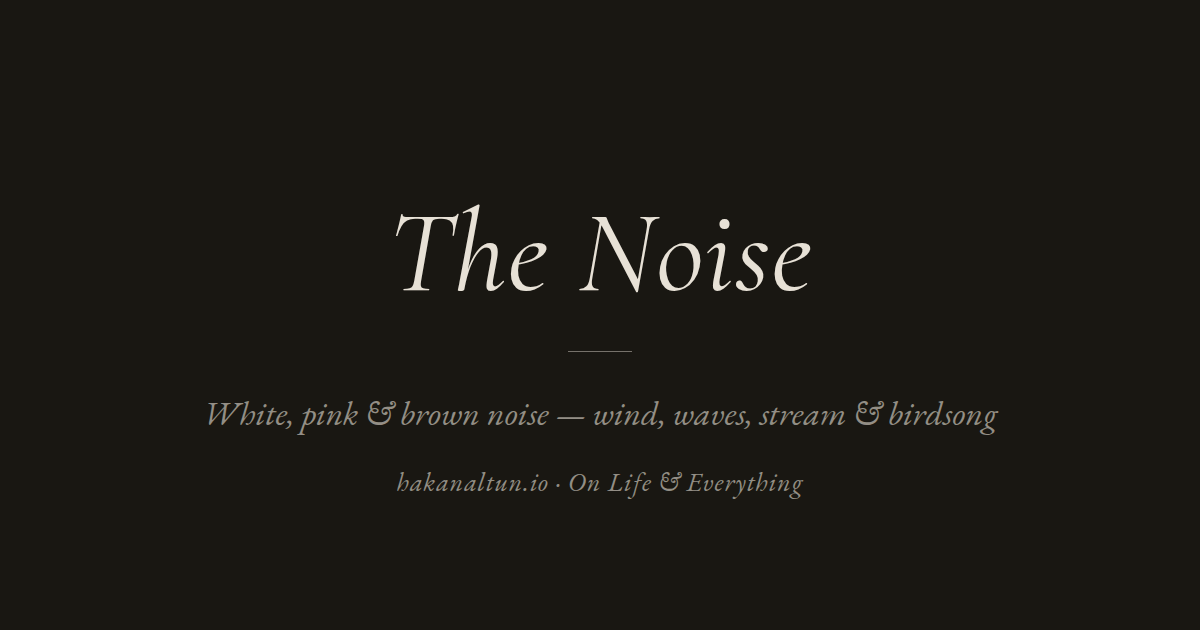
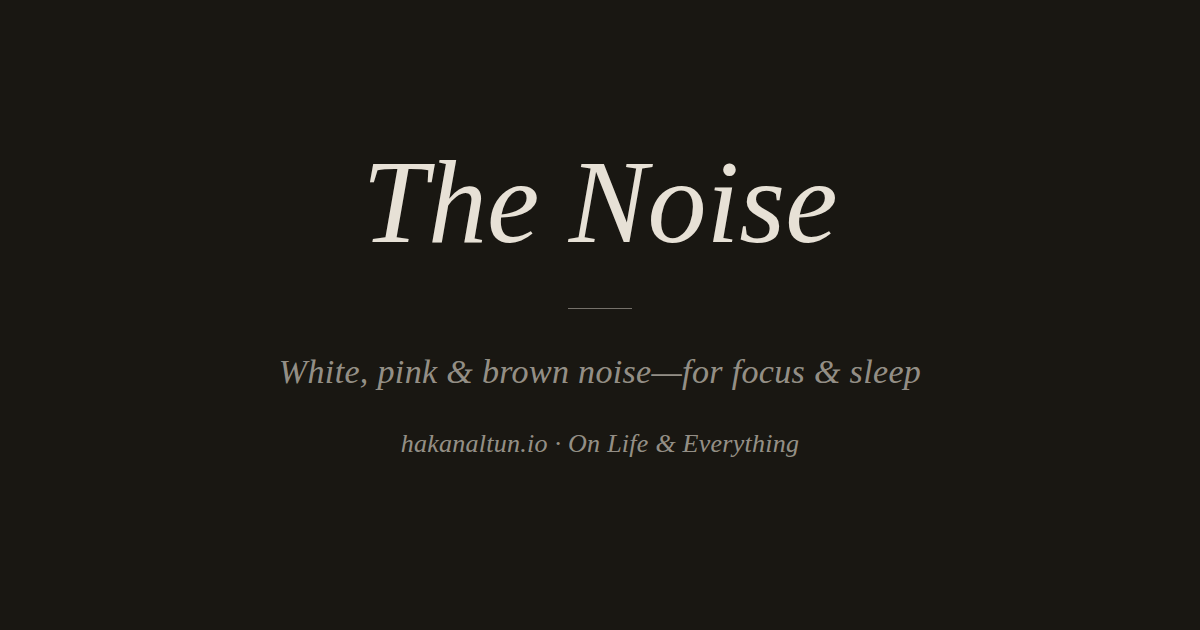
Pare the noise to its three colors, dress the tools in wine
- The Noise keeps only white, pink and brown noise: the synthesized
  nature sounds never quite escaped their machinery, so they go —
  buttons, builders, copy, metadata and the OG card all updated,
  and sibling pages now link to it as 'ambient noise'
- The tools chrome becomes the site's wine red (#7A4453)
- Twilight's text now leans from cream toward the same wine as the
  day brightens, instead of plain ink
- Fix twilight anchoring sun events to the wrong UTC date in far
  eastern and western cities, which showed Los Angeles a negative
  day length and pointed the next-event line at the wrong moment

Claude-Session: https://claude.ai/code/session_011VHvkLSUdAN92JzawrxAur

Changed region(s): [[0.3083, 0.2413, 0.7092, 0.4825], [0.1542, 0.573, 0.8325, 0.7238], [0.3083, 0.754, 0.6783, 0.7841]]

diff --git a/noise/index.html b/noise/index.html
@@ -6,21 +6,21 @@ layout: null
 <head>
 <meta charset="UTF-8">
 <meta name="viewport" content="width=device-width, initial-scale=1.0">
-<title>White, Pink &amp; Brown Noise, Wind, Waves &amp; a Stream &middot; On Life &amp; Everything</title>
-<meta name="description" content="A quiet sound machine for focus and sleep: white, pink and brown noise, plus wind, waves and a stream&mdash;all synthesized live in your browser, with a volume dial and a sleep timer.">
+<title>White, Pink &amp; Brown Noise &middot; On Life &amp; Everything</title>
+<meta name="description" content="A quiet sound machine for focus and sleep: white, pink and brown noise, synthesized live in your browser, with a volume dial and a sleep timer.">
 <link rel="canonical" href="https://hakanaltun.io/noise/">
 <meta property="og:type" content="website">
-<meta property="og:title" content="White, Pink &amp; Brown Noise, Wind, Waves &amp; a Stream">
-<meta property="og:description" content="Noise colors and nature sounds for focus and sleep, synthesized live in your browser, with a volume dial and a sleep timer.">
+<meta property="og:title" content="White, Pink &amp; Brown Noise">
+<meta property="og:description" content="Noise colors for focus and sleep, synthesized live in your browser, with a volume dial and a sleep timer.">
 <meta property="og:url" content="https://hakanaltun.io/noise/">
-<meta property="og:image" content="https://hakanaltun.io/images/og/noise.png?v=20260716-2">
-<meta property="og:image:alt" content="The Noise—noise colors and nature sounds for focus and sleep">
+<meta property="og:image" content="https://hakanaltun.io/images/og/noise.png?v=20260716-3">
+<meta property="og:image:alt" content="The Noise—white, pink and brown noise for focus and sleep">
 <meta property="og:image:width" content="1200">
 <meta property="og:image:height" content="630">
 <meta name="twitter:card" content="summary_large_image">
-<meta name="twitter:title" content="White, Pink &amp; Brown Noise, Wind, Waves &amp; a Stream">
-<meta name="twitter:description" content="Noise colors and nature sounds for focus and sleep, synthesized live in your browser, with a volume dial and a sleep timer.">
-<meta name="twitter:image" content="https://hakanaltun.io/images/og/noise.png?v=20260716-2">
+<meta name="twitter:title" content="White, Pink &amp; Brown Noise">
+<meta name="twitter:description" content="Noise colors for focus and sleep, synthesized live in your browser, with a volume dial and a sleep timer.">
+<meta name="twitter:image" content="https://hakanaltun.io/images/og/noise.png?v=20260716-3">
 <meta name="theme-color" content="#191712">
 
 <script type="application/ld+json">
@@ -30,9 +30,9 @@ layout: null
     {
       "@type": "WebApplication",
       "@id": "https://hakanaltun.io/noise/#app",
-      "name": "The Noise—Noise Colors & Nature Sounds",
+      "name": "The Noise—White, Pink & Brown Noise",
       "url": "https://hakanaltun.io/noise/",
-      "description": "A quiet sound machine for focus and sleep: white, pink and brown noise, plus wind, waves and a stream—all synthesized live in your browser, with a volume dial and a sleep timer.",
+      "description": "A quiet sound machine for focus and sleep: white, pink and brown noise, synthesized live in your browser, with a volume dial and a sleep timer.",
       "applicationCategory": "UtilitiesApplication",
       "operatingSystem": "Any",
       "browserRequirements": "Requires JavaScript and Web Audio",
@@ -52,8 +52,8 @@ layout: null
         },
         {
           "@type": "Question",
-          "name": "Where do the sounds come from?",
-          "acceptedAnswer": { "@type": "Answer", "text": "Your browser synthesizes them the moment you press play. The noise colors are shaped from raw randomness, and the nature sounds are built from the same material—filtered into wind, gathered into waves, quickened into a stream. Because they are computed rather than recorded, they carry on indefinitely and never loop." }
+          "name": "Where does the sound come from?",
+          "acceptedAnswer": { "@type": "Answer", "text": "Your browser synthesizes it the moment you press play, shaping each color live from raw randomness. Because the sound is computed rather than recorded, it carries on indefinitely and never loops." }
         },
         {
           "@type": "Question",
@@ -252,9 +252,6 @@ layout: null
         <button data-sound="white" aria-pressed="false">White</button>
         <button data-sound="pink" aria-pressed="false">Pink</button>
         <button data-sound="brown" aria-pressed="true">Brown</button>
-        <button data-sound="wind" aria-pressed="false">Wind</button>
-        <button data-sound="waves" aria-pressed="false">Waves</button>
-        <button data-sound="stream" aria-pressed="false">Stream</button>
       </div>
     </div>
 
@@ -289,14 +286,14 @@ layout: null
   <footer class="notes" id="notes">
     <div class="notes-inner">
       <h2>About this sound machine</h2>
-      <p>Sounds to work, rest and sleep inside: three colors of noise&mdash;white, pink and brown&mdash;and three borrowed from nature: wind, waves and a stream. Your browser&rsquo;s audio engine shapes them live as they play, so each one carries on for as long as you leave it running. Set the volume low, choose a sound, and let it hold the room; the sleep timer can fade everything out after 15, 30 or 60 minutes.</p>
+      <p>Sounds to work, rest and sleep inside: three colors of noise&mdash;white, pink and brown. Your browser&rsquo;s audio engine shapes them live as they play, so each one carries on for as long as you leave it running. Set the volume low, choose a color, and let it hold the room; the sleep timer can fade everything out after 15, 30 or 60 minutes.</p>
 
       <h2>Questions</h2>
       <h3>What is the difference between white, pink and brown noise?</h3>
       <p>White noise spreads its energy evenly across all frequencies and sounds bright, like static. Pink noise tilts toward the low end and sounds like steady rain. Brown noise leans lower still&mdash;closer to surf or a distant waterfall&mdash;and many people find it the easiest to sit inside for hours.</p>
 
-      <h3>Where do the sounds come from?</h3>
-      <p>Your browser synthesizes them the moment you press play. The noise colors are shaped from raw randomness, and the nature sounds are built from the same material&mdash;filtered into wind, gathered into waves, quickened into a stream. Because they are computed rather than recorded, they carry on indefinitely and never loop.</p>
+      <h3>Where does the sound come from?</h3>
+      <p>Your browser synthesizes it the moment you press play, shaping each color live from raw randomness. Because the sound is computed rather than recorded, it carries on indefinitely and never loops.</p>
 
       <h3>Will it keep playing if I switch tabs or lock my phone?</h3>
       <p>In a background tab on a computer, yes. On phones the operating system may pause web audio when the screen locks&mdash;keep the page in the foreground, or use the sleep timer and let it fade out on its own.</p>
@@ -320,10 +317,7 @@ layout: null
   var SOUNDS = {                     /* display name + rough loudness matching */
     white:  { name:"White noise", level:0.16 },
     pink:   { name:"Pink noise",  level:0.22 },
-    brown:  { name:"Brown noise", level:0.38 },
-    wind:   { name:"Wind",        level:0.55 },
-    waves:  { name:"Waves",       level:0.60 },
-    stream: { name:"Stream",      level:0.42 }
+    brown:  { name:"Brown noise", level:0.38 }
   };
 
   try{
@@ -386,154 +380,15 @@ layout: null
   }
   function targetGain(){ return (+$("#vol").value / 100) * SOUNDS[sound].level; }
 
-  /* ---- the sounds: each builder wires a small graph into master and
-     returns a handle whose stop() silences everything it started ---- */
-  function handle(){
-    var h = { sources:[], oscs:[], timers:[] };
-    h.stop = function(){
-      h.timers.forEach(clearTimeout);
-      h.oscs.forEach(function(o){ try{ o.stop(); }catch(e){} });
-      h.sources.forEach(function(s){ try{ s.stop(); }catch(e){} });
-    };
-    return h;
-  }
-  function loopSrc(kind, h){
+  /* ---- one looping source per color; stop() silences it ---- */
+  function buildColor(kind){
     if(!buffers[kind]) buffers[kind] = makeBuffer(kind);
     var s = ctx.createBufferSource();
     s.buffer = buffers[kind];
     s.loop = true;
-    h.sources.push(s);
-    return s;
-  }
-  function lfo(freq, depth, param, h){
-    var o = ctx.createOscillator();
-    o.frequency.value = freq;
-    var g = ctx.createGain();
-    g.gain.value = depth;
-    o.connect(g); g.connect(param); o.start();
-    h.oscs.push(o);
-    return o;
-  }
-
-  function buildColor(kind){
-    var h = handle();
-    var s = loopSrc(kind, h);
     s.connect(master); s.start();
-    return h;
+    return { stop: function(){ try{ s.stop(); }catch(e){} } };
   }
-
-  function buildWind(){
-    var h = handle();
-    var s = loopSrc("pink", h);
-    var lp = ctx.createBiquadFilter(); lp.type = "lowpass"; lp.frequency.value = 360; lp.Q.value = 0.9;
-    var amp = ctx.createGain(); amp.gain.value = 0.7;
-    s.connect(lp); lp.connect(amp); amp.connect(master); s.start();
-    lfo(0.05, 130, lp.frequency, h);      /* slow swells */
-    lfo(0.11, 70,  lp.frequency, h);      /* off-beat gusts */
-    lfo(0.043, 0.26, amp.gain, h);
-    /* a faint whistle riding the gusts — the part of wind waves don't have */
-    var s2 = loopSrc("pink", h);
-    var bp = ctx.createBiquadFilter(); bp.type = "bandpass"; bp.frequency.value = 950; bp.Q.value = 2.4;
-    var g2 = ctx.createGain(); g2.gain.value = 0.09;
-    s2.connect(bp); bp.connect(g2); g2.connect(master); s2.start();
-    lfo(0.05, 0.06, g2.gain, h);
-    lfo(0.13, 340, bp.frequency, h);
-    return h;
-  }
-
-  function buildWaves(){
-    var h = handle();
-    /* a deep, steady bed the waves rise out of */
-    var bed = loopSrc("brown", h);
-    var bedLp = ctx.createBiquadFilter(); bedLp.type = "lowpass"; bedLp.frequency.value = 190;
-    var bedG = ctx.createGain(); bedG.gain.value = 0.3;
-    bed.connect(bedLp); bedLp.connect(bedG); bedG.connect(master); bed.start();
-    lfo(0.02, 0.08, bedG.gain, h);        /* the tide */
-    /* each wave gathers dark, breaks bright, and washes out — an envelope
-       scheduled per wave rather than a steady oscillation */
-    var s = loopSrc("brown", h);
-    var lp = ctx.createBiquadFilter(); lp.type = "lowpass"; lp.frequency.value = 260; lp.Q.value = 0.7;
-    var wash = ctx.createGain(); wash.gain.value = 0.0001;
-    s.connect(lp); lp.connect(wash); wash.connect(master); s.start();
-    var hiss = loopSrc("white", h);
-    var hbp = ctx.createBiquadFilter(); hbp.type = "bandpass"; hbp.frequency.value = 2400; hbp.Q.value = 0.5;
-    var hissG = ctx.createGain(); hissG.gain.value = 0.0001;
-    hiss.connect(hbp); hbp.connect(hissG); hissG.connect(master); hiss.start();
-    function wave(){
-      var t = ctx.currentTime;
-      var draw  = 1.5 + Math.random() * 1.4;    /* the wave gathers */
-      var spill = 3.2 + Math.random() * 2.4;    /* and washes out */
-      var peak  = 0.5  + Math.random() * 0.3;
-      wash.gain.cancelScheduledValues(t);
-      wash.gain.setValueAtTime(Math.max(wash.gain.value, 0.0001), t);
-      wash.gain.exponentialRampToValueAtTime(peak, t + draw);
-      wash.gain.exponentialRampToValueAtTime(0.0001, t + draw + spill);
-      lp.frequency.cancelScheduledValues(t);
-      lp.frequency.setValueAtTime(Math.max(lp.frequency.value, 260), t);
-      lp.frequency.linearRampToValueAtTime(900 + Math.random() * 700, t + draw);
-      lp.frequency.linearRampToValueAtTime(260, t + draw + spill);
-      hissG.gain.cancelScheduledValues(t);
-      hissG.gain.setValueAtTime(Math.max(hissG.gain.value, 0.0001), t);
-      hissG.gain.exponentialRampToValueAtTime(0.02 + 0.1 * peak, t + draw);
-      hissG.gain.exponentialRampToValueAtTime(0.0001, t + draw + spill * 0.7);
-      h.timers[0] = setTimeout(wave, (draw + spill * 0.85) * 1000);
-    }
-    wave();
-    return h;
-  }
-
-  function buildStream(){
-    var h = handle();
-    var s1 = loopSrc("white", h);         /* bright ripple */
-    var bp1 = ctx.createBiquadFilter(); bp1.type = "bandpass"; bp1.frequency.value = 1600; bp1.Q.value = 1.2;
-    var g1 = ctx.createGain(); g1.gain.value = 0.4;
-    s1.connect(bp1); bp1.connect(g1); g1.connect(master); s1.start();
-    var s2 = loopSrc("white", h);         /* mid gurgle */
-    var bp2 = ctx.createBiquadFilter(); bp2.type = "bandpass"; bp2.frequency.value = 600; bp2.Q.value = 1.4;
-    var g2 = ctx.createGain(); g2.gain.value = 0.45;
-    s2.connect(bp2); bp2.connect(g2); g2.connect(master); s2.start();
-    var s3 = loopSrc("brown", h);         /* the low body of the water */
-    var lp = ctx.createBiquadFilter(); lp.type = "lowpass"; lp.frequency.value = 300;
-    var g3 = ctx.createGain(); g3.gain.value = 0.2;
-    s3.connect(lp); lp.connect(g3); g3.connect(master); s3.start();
-    /* babble: nudge the bands somewhere new every fraction of a second —
-       irregularity is what keeps water from sounding like a machine */
-    function babble(){
-      var t = ctx.currentTime;
-      bp1.frequency.setTargetAtTime(1200 + Math.random() * 1400, t, 0.06);
-      g1.gain.setTargetAtTime(0.25 + Math.random() * 0.3, t, 0.08);
-      bp2.frequency.setTargetAtTime(450 + Math.random() * 350, t, 0.09);
-      g2.gain.setTargetAtTime(0.3 + Math.random() * 0.3, t, 0.1);
-      h.timers[0] = setTimeout(babble, 90 + Math.random() * 180);
-    }
-    babble();
-    /* the occasional soft bubble */
-    function plip(){
-      var t = ctx.currentTime + 0.02;
-      var f = 350 + Math.random() * 500;
-      var o = ctx.createOscillator();
-      var e = ctx.createGain();
-      o.frequency.setValueAtTime(f, t);
-      o.frequency.exponentialRampToValueAtTime(f * (1.4 + Math.random() * 0.8), t + 0.045);
-      e.gain.setValueAtTime(0, t);
-      e.gain.linearRampToValueAtTime(0.03 + Math.random() * 0.04, t + 0.008);
-      e.gain.exponentialRampToValueAtTime(0.0001, t + 0.05 + Math.random() * 0.05);
-      o.connect(e); e.connect(master);
-      o.start(t); o.stop(t + 0.15);
-      h.timers[1] = setTimeout(plip, 400 + Math.random() * 1600);
-    }
-    plip();
-    return h;
-  }
-
-  var BUILDERS = {
-    white:  function(){ return buildColor("white"); },
-    pink:   function(){ return buildColor("pink"); },
-    brown:  function(){ return buildColor("brown"); },
-    wind:   buildWind,
-    waves:  buildWaves,
-    stream: buildStream
-  };
 
   function stopActive(){
     if(active){ active.stop(); active = null; }
@@ -545,7 +400,7 @@ layout: null
     master.gain.cancelScheduledValues(ctx.currentTime);
     master.gain.setValueAtTime(0, ctx.currentTime);
     master.gain.linearRampToValueAtTime(targetGain(), ctx.currentTime + 0.4);
-    active = BUILDERS[sound]();
+    active = buildColor(sound);
     playing = true;
     document.body.classList.add("playing");
     armTimer();
@@ -569,7 +424,7 @@ layout: null
       stopActive();
       master.gain.cancelScheduledValues(ctx.currentTime);
       master.gain.setValueAtTime(targetGain(), ctx.currentTime);
-      active = BUILDERS[k]();
+      active = buildColor(k);
     }
     save();
   }

diff --git a/twilight/index.html b/twilight/index.html
@@ -324,6 +324,13 @@ layout: null
     var UT = ((T - lngHour) % 24 + 24) % 24;
     var date = new Date(Date.UTC(day.y, day.mo, day.d));
     date.setUTCMinutes(Math.round(UT * 60));
+    /* anchor the event to the city's own calendar day: for far-east or
+       far-west cities the UT can land on the neighboring UTC date, which
+       put sunset before sunrise and bent the day length negative */
+    var wall = new Date(date.getTime() + tzOffsetMs(date));
+    var shift = Date.UTC(day.y, day.mo, day.d)
+              - Date.UTC(wall.getUTCFullYear(), wall.getUTCMonth(), wall.getUTCDate());
+    if(shift !== 0) date = new Date(date.getTime() + shift);
     return date;
   }
   function eventsFor(day){
@@ -352,8 +359,9 @@ layout: null
     return Math.asin(Math.sin(latR) * sinDec + Math.cos(latR) * Math.cos(dec) * Math.cos(H * RAD)) / RAD;
   }
 
-  /* ---- sky ramp: altitude → background, and how far the text leans to ink ---- */
-  var CREAM = [237,228,207], INK = [47,43,39];
+  /* ---- sky ramp: altitude → background, and how far the text leans from
+     cream toward wine — the tools' own red — as the day brightens ---- */
+  var CREAM = [237,228,207], WINE = [122,68,83];
   var STOPS = [   /* [altitude°, [r,g,b], inkMix 0..1] */
     [-30, [ 12, 16, 24], 0],
     [-18, [ 14, 19, 29], 0],
@@ -414,12 +422,12 @@ layout: null
     /* sky */
     var sky = skyAt(alt);
     document.body.style.backgroundColor = "rgb(" + sky[1].join(",") + ")";
-    document.body.style.color = mix(CREAM, INK, sky[2]);
-    var mutedA = sky[2] > 0.5 ? "rgba(47,43,39,0.62)" : "rgba(237,228,207,0.62)";
-    var lineA  = sky[2] > 0.5 ? "rgba(47,43,39,0.28)" : "rgba(237,228,207,0.28)";
+    document.body.style.color = mix(CREAM, WINE, sky[2]);
+    var mutedA = sky[2] > 0.5 ? "rgba(122,68,83,0.66)" : "rgba(237,228,207,0.62)";
+    var lineA  = sky[2] > 0.5 ? "rgba(122,68,83,0.3)" : "rgba(237,228,207,0.28)";
     document.documentElement.style.setProperty("--muted", mutedA);
     document.documentElement.style.setProperty("--line", lineA);
-    document.documentElement.style.setProperty("--fg", mix(CREAM, INK, sky[2]));
+    document.documentElement.style.setProperty("--fg", mix(CREAM, WINE, sky[2]));
 
     /* phase word */
     var name = phaseName(alt, now, ev);

diff --git a/tools.html b/tools.html
@@ -31,7 +31,7 @@ description: "Small free instruments kept here: a fullscreen clock with countdow
     </a>
     <a class="tools-item" href="/noise/">
       <h2>The Noise</h2>
-      <p>White, pink and brown noise, with wind, waves and a stream&mdash;shaped live in your browser, with a sleep timer.</p>
+      <p>White, pink and brown noise&mdash;shaped live in your browser, with a volume dial and a sleep timer.</p>
     </a>
     <a class="tools-item" href="/moon/">
       <h2>The Moon</h2>
@@ -61,7 +61,7 @@ description: "Small free instruments kept here: a fullscreen clock with countdow
       { "@type": "ListItem", "position": 2, "name": "The Page—A Blank Page for Distraction-Free Writing", "url": "https://hakanaltun.io/write/" },
       { "@type": "ListItem", "position": 3, "name": "The Counter—Word Counter with Reading Time", "url": "https://hakanaltun.io/words/" },
       { "@type": "ListItem", "position": 4, "name": "The Breath—Box, 4-7-8 & Coherent Breathing", "url": "https://hakanaltun.io/breathe/" },
-      { "@type": "ListItem", "position": 5, "name": "The Noise—Noise Colors & Nature Sounds", "url": "https://hakanaltun.io/noise/" },
+      { "@type": "ListItem", "position": 5, "name": "The Noise—White, Pink & Brown Noise", "url": "https://hakanaltun.io/noise/" },
       { "@type": "ListItem", "position": 6, "name": "The Moon—Moon Phase Today", "url": "https://hakanaltun.io/moon/" },
       { "@type": "ListItem", "position": 7, "name": "Twilight—Sunrise, Sunset & Civil Twilight Today", "url": "https://hakanaltun.io/twilight/" }
     ]

diff --git a/breathe/index.html b/breathe/index.html
@@ -278,7 +278,7 @@ layout: null
       <h3>How long should I practice?</h3>
       <p>A few minutes is plenty; even four or five rounds can settle things. Stop and breathe normally if you feel light-headed. This page is a relaxation exercise, not medical advice or treatment.</p>
 
-      <p class="notes-links">More instruments: <a href="/noise/">noise <span class="amp">&amp;</span> nature sounds</a>, <a href="/clock/">a fullscreen clock with pomodoro</a>, <a href="/write/">a blank page to write on</a>, <a href="/words/">a word counter</a>, <a href="/moon/">the phase of the moon</a> and <a href="/twilight/">&#304;stanbul&rsquo;s twilight</a>&mdash;or see <a href="/tools/">all the tools</a>.</p>
+      <p class="notes-links">More instruments: <a href="/noise/">ambient noise</a>, <a href="/clock/">a fullscreen clock with pomodoro</a>, <a href="/write/">a blank page to write on</a>, <a href="/words/">a word counter</a>, <a href="/moon/">the phase of the moon</a> and <a href="/twilight/">&#304;stanbul&rsquo;s twilight</a>&mdash;or see <a href="/tools/">all the tools</a>.</p>
     </div>
   </footer>
 

diff --git a/clock/index.html b/clock/index.html
@@ -460,7 +460,7 @@ layout: null
       <h3>Where are my settings kept?</h3>
       <p>In your browser&rsquo;s local storage, on your device. The running timers, the background color and the seconds toggle are all waiting there the next time you open the page.</p>
 
-      <p class="notes-links">More instruments: <a href="/words/">a word counter</a>, <a href="/write/">a blank page to write on</a>, <a href="/breathe/">a breathing exercise</a>, <a href="/noise/">noise <span class="amp">&amp;</span> nature sounds</a>, <a href="/moon/">the phase of the moon</a> and <a href="/twilight/">&#304;stanbul&rsquo;s twilight</a>&mdash;or see <a href="/tools/">all the tools</a>.</p>
+      <p class="notes-links">More instruments: <a href="/words/">a word counter</a>, <a href="/write/">a blank page to write on</a>, <a href="/breathe/">a breathing exercise</a>, <a href="/noise/">ambient noise</a>, <a href="/moon/">the phase of the moon</a> and <a href="/twilight/">&#304;stanbul&rsquo;s twilight</a>&mdash;or see <a href="/tools/">all the tools</a>.</p>
     </div>
   </footer>
 

diff --git a/moon/index.html b/moon/index.html
@@ -246,7 +246,7 @@ layout: null
       <h3>Why does the moon look flipped from the southern hemisphere?</h3>
       <p>The page draws the moon as seen from the northern hemisphere, where a waxing moon lights up from the right. South of the equator the same moon stands the other way up, so the lit side appears mirrored.</p>
 
-      <p class="notes-links">More instruments: <a href="/twilight/">&#304;stanbul&rsquo;s twilight and sun times</a>, <a href="/clock/">a fullscreen clock</a>, <a href="/write/">a blank page to write on</a>, <a href="/words/">a word counter</a>, <a href="/breathe/">a breathing exercise</a> and <a href="/noise/">noise <span class="amp">&amp;</span> nature sounds</a>&mdash;or see <a href="/tools/">all the tools</a>.</p>
+      <p class="notes-links">More instruments: <a href="/twilight/">&#304;stanbul&rsquo;s twilight and sun times</a>, <a href="/clock/">a fullscreen clock</a>, <a href="/write/">a blank page to write on</a>, <a href="/words/">a word counter</a>, <a href="/breathe/">a breathing exercise</a> and <a href="/noise/">ambient noise</a>&mdash;or see <a href="/tools/">all the tools</a>.</p>
     </div>
   </footer>
 

diff --git a/words/index.html b/words/index.html
@@ -299,7 +299,7 @@ layout: null
       <h3>Is my text uploaded anywhere?</h3>
       <p>It is counted right here in the browser as you type, and kept in local storage so it survives a reload&mdash;it travels no further than your device.</p>
 
-      <p class="notes-links">More instruments: <a href="/write/">a blank page to write on</a>, <a href="/clock/">a fullscreen clock with pomodoro</a>, <a href="/breathe/">a breathing exercise</a>, <a href="/noise/">noise <span class="amp">&amp;</span> nature sounds</a>, <a href="/moon/">the phase of the moon</a> and <a href="/twilight/">&#304;stanbul&rsquo;s twilight</a>&mdash;or see <a href="/tools/">all the tools</a>.</p>
+      <p class="notes-links">More instruments: <a href="/write/">a blank page to write on</a>, <a href="/clock/">a fullscreen clock with pomodoro</a>, <a href="/breathe/">a breathing exercise</a>, <a href="/noise/">ambient noise</a>, <a href="/moon/">the phase of the moon</a> and <a href="/twilight/">&#304;stanbul&rsquo;s twilight</a>&mdash;or see <a href="/tools/">all the tools</a>.</p>
     </div>
   </footer>
 

diff --git a/write/index.html b/write/index.html
@@ -271,7 +271,7 @@ layout: null
       <h3>Can I write in fullscreen?</h3>
       <p>Yes. The fullscreen button clears away everything but the paper, with the word count for company; moving the mouse brings the controls back.</p>
 
-      <p class="notes-links">More instruments: <a href="/words/">a word counter</a>, <a href="/clock/">a fullscreen clock with pomodoro</a>, <a href="/breathe/">a breathing exercise</a>, <a href="/noise/">noise <span class="amp">&amp;</span> nature sounds</a>, <a href="/moon/">the phase of the moon</a> and <a href="/twilight/">&#304;stanbul&rsquo;s twilight</a>&mdash;or see <a href="/tools/">all the tools</a>.</p>
+      <p class="notes-links">More instruments: <a href="/words/">a word counter</a>, <a href="/clock/">a fullscreen clock with pomodoro</a>, <a href="/breathe/">a breathing exercise</a>, <a href="/noise/">ambient noise</a>, <a href="/moon/">the phase of the moon</a> and <a href="/twilight/">&#304;stanbul&rsquo;s twilight</a>&mdash;or see <a href="/tools/">all the tools</a>.</p>
     </div>
   </footer>
 